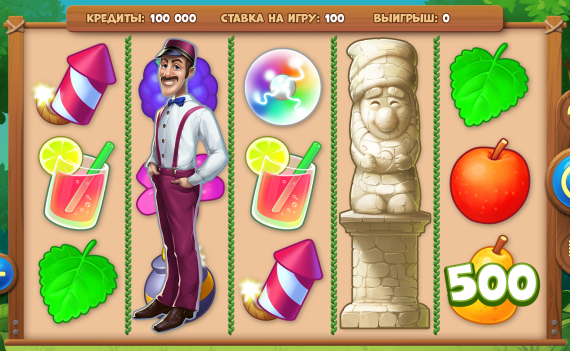
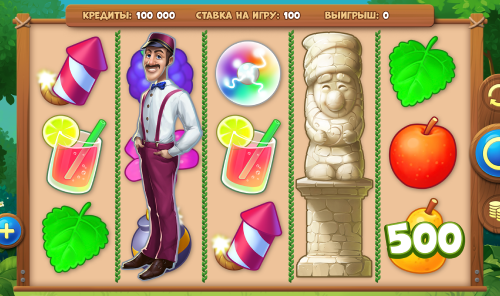
fix image

diff --git a/index.html b/index.html
@@ -446,25 +446,25 @@
 								<div class="carousel">
 									<div class="slide">
 										<img
-											src="assets/img/gardenSlots/frame2.png"
+											src="assets/img/gardenSlots/frame1.png"
 											alt="Slide 1"
 										/>
 									</div>
 									<div class="slide">
 										<img
-											src="assets/img/gardenSlots/frame3.png"
+											src="assets/img/gardenSlots/frame2.png"
 											alt="Slide 2"
 										/>
 									</div>
 									<div class="slide">
 										<img
-											src="assets/img/gardenSlots/frame4.png"
+											src="assets/img/gardenSlots/frame3.png"
 											alt="Slide 3"
 										/>
 									</div>
 									<div class="slide">
 										<img
-											src="assets/img/gardenSlots/frame5.png"
+											src="assets/img/gardenSlots/frame4.png"
 											alt="Slide 4"
 										/>
 									</div>

diff --git a/assets/css/gamePage.css b/assets/css/gamePage.css
@@ -36,9 +36,12 @@
 }
 
 .gamePage-section2-gameInf-mainImg {
+	margin: 20px 50px 10px 0;
+}
+
+.gamePage-section2-gameInf-mainImg img {
 	width: 570px;
 	height: 351px;
-	margin: 20px 50px 10px 0;
 }
 
 .gamePage-section2-carousel {

diff --git a/assets/css/style.css b/assets/css/style.css
@@ -4,7 +4,7 @@
 *::before,
 *::after {
 	box-sizing: border-box;
-	outline: red dashed 1px;
+	/* outline: red dashed 1px; */
 	font-family: "Montserrat", sans-serif;
 }
 
